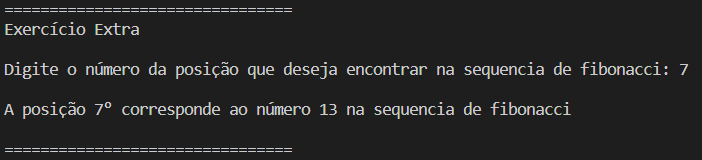
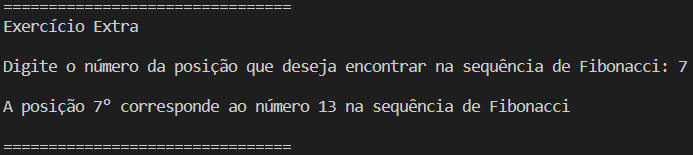
Att Exercício Extra

diff --git a/codigo/Lista 02/Exercício Extra/Program.cs b/codigo/Lista 02/Exercício Extra/Program.cs
@@ -4,20 +4,19 @@ namespace Exercício_Extra
 {
     class Program
     {
-        static int fibonacci(int x)
+        static int Fibonacci(int x)
         {
-            if (x == 0) return 0;
-            else if (x == 1) return 1;
-            return fibonacci(x - 1) + fibonacci(x - 2);
-
+            if (x <= 0) return 0;
+            if (x == 1) return 1;
+            return Fibonacci(x - 1) + Fibonacci(x - 2);
         }
         static void Main(string[] args)
         {
             Console.WriteLine("\n================================");
             Console.WriteLine("Exercício Extra");
-            Console.Write("\nDigite o número da posição que deseja encontrar na sequência de fibonacci: ");
+            Console.Write("\nDigite o número da posição que deseja encontrar na sequência de Fibonacci: ");
             int n = int.Parse(Console.ReadLine());
-            Console.WriteLine("\nA posição {0}° corresponde ao número {1} na sequência de fibonacci", n, fibonacci(n));
+            Console.WriteLine("\nA posição {0}° corresponde ao número {1} na sequência de Fibonacci", n, Fibonacci(n));
             Console.WriteLine("\n================================");
         }
     }

diff --git a/relatorio/Lista 02.md b/relatorio/Lista 02.md
@@ -48,7 +48,7 @@ Escreva um método recursivo que receba uma frase e retorne a mesma frase, sem n
 
 # Exercício Extra
 
-Escreva um método recursivo que encontre uma determinada posição na sequência de fibonacci.
+Escreva um método recursivo que encontre uma determinada posição na sequência de Fibonacci.
 
 ## <a href="/codigo\Lista 02\Exercício Extra\Program.cs">Resolução</a>
 
